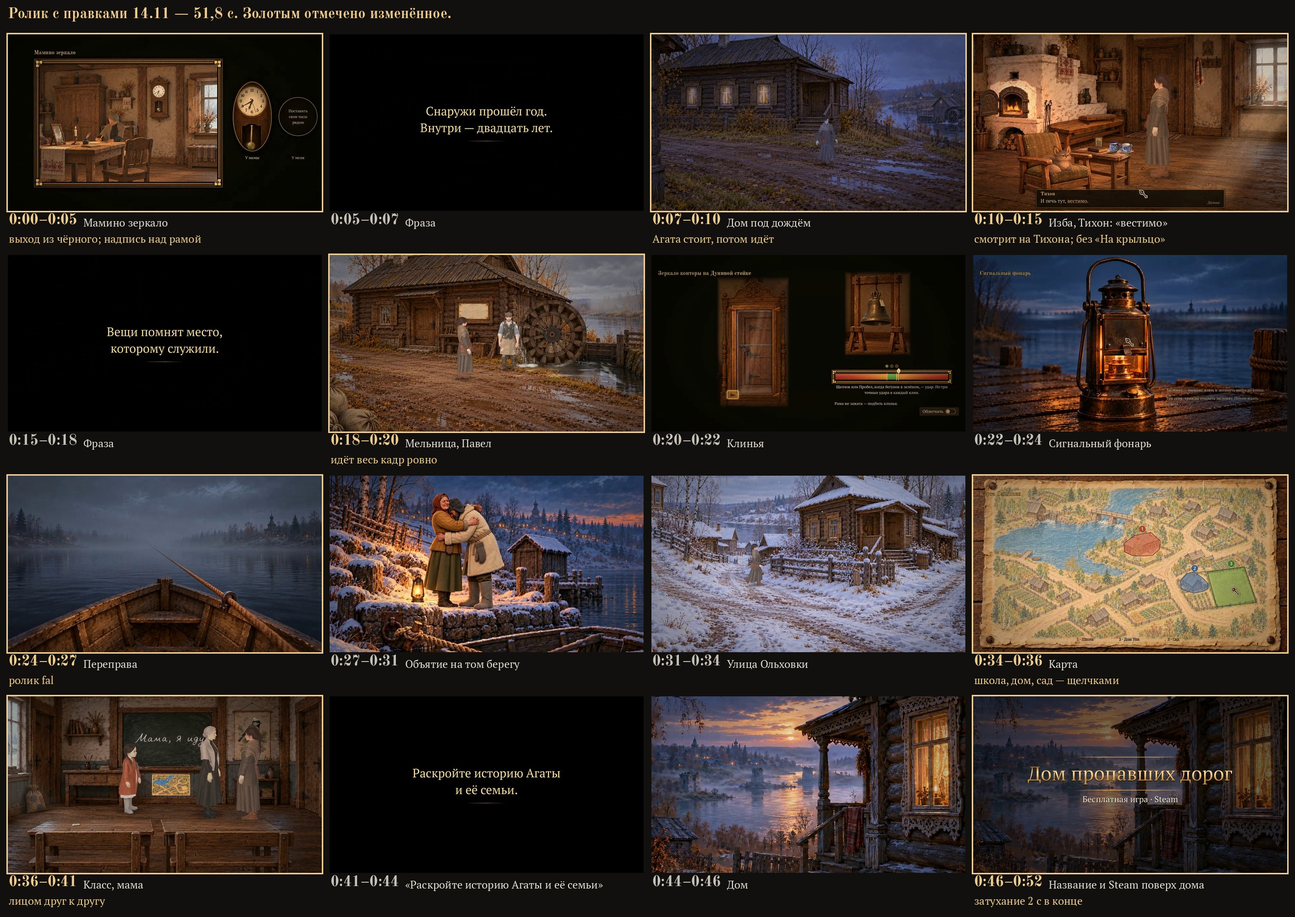
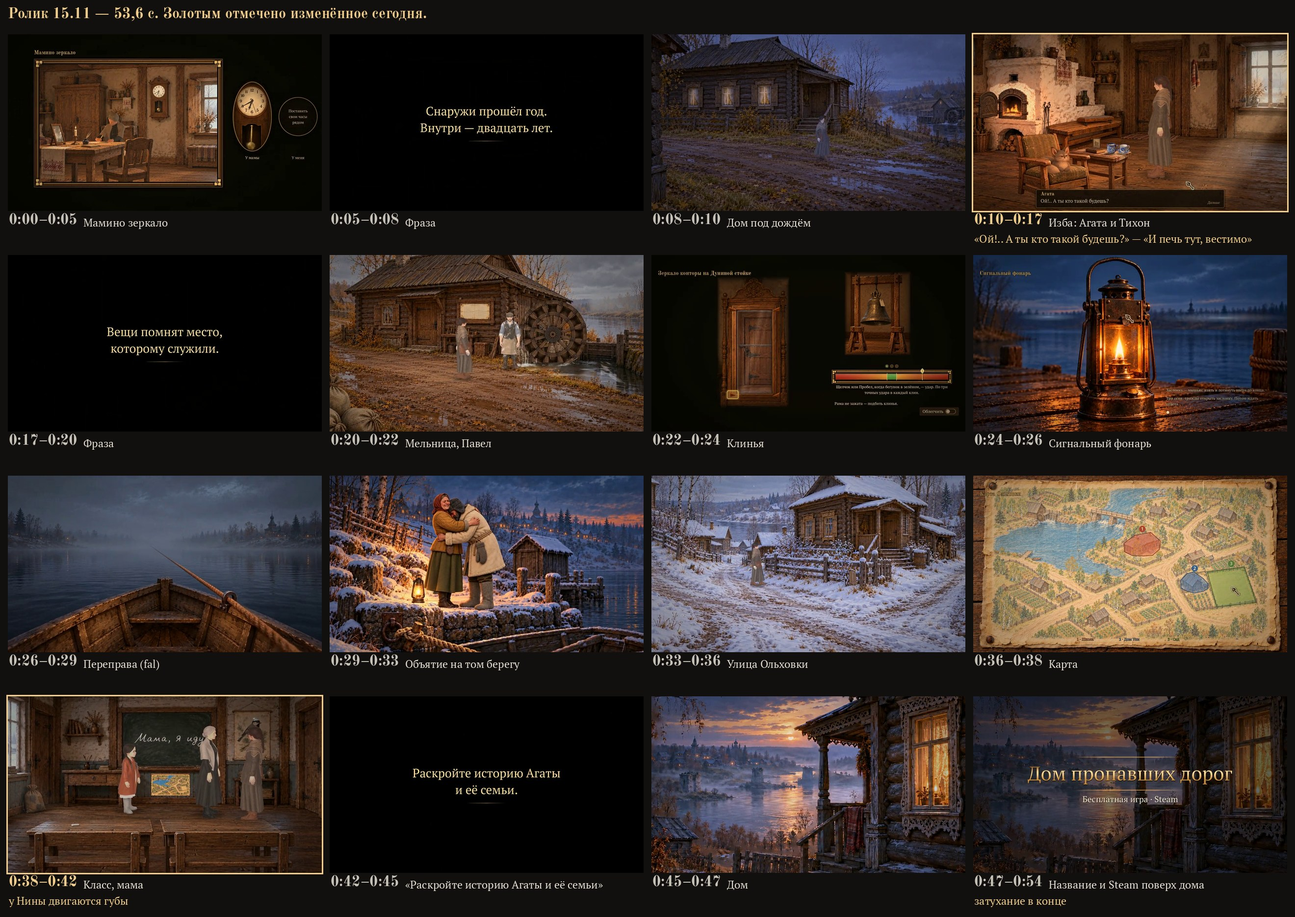
Ролик 15.11: раскадровка 53,6 с; состояние — отправлен полный архивом [skip ci]
Claude-Session: https://claude.ai/code/session_01Qvdjz1zmfr41cRSvLxvjeK

diff --git a/Docs/CURRENT_STATE.md b/Docs/CURRENT_STATE.md
@@ -1,4 +1,4 @@
-# Current state — 15.11, 13:40: ролик — фраза Агаты в избе и губы у говорящих; дневная переправа живая; рендер и полный прогон запускаются (Opus 5.5)
+# Current state — 15.11, 14:50: ролик с фразой Агаты и губами отрендерен и отправлен (полный — архивом); скриншоты — новый выбор (Opus 5.5)
 - **В новой копии репозитория первым делом: `git config core.hooksPath tools/hooks`** (хук не пускает в main коммит без «[skip ci]»).
 - **Директор 15.11:** 12:51 «ролик вроде норм, только какую-то фразу Агаты бы вставить, можно ту же сцену чуть расширить с Тихоном… у Нины на видео нет движений мимики, в игре её тоже мы не доделали?»; 12:52 «и какое качество ролика в целом»; «дневной ролик можешь заказывать да»; «по скринам — дай архивом всё, что есть у нас сейчас и что рассматриваются».
 - **Скриншоты — новый выбор Директора 13:58: 2, 6, 12, 14, 15, 18, 21**; № 21 переснят с Агатой у Мити (`shots_quests.gd`), архив и лист отправлены 14:15 (`CHOSEN.md`, `_vybor_1511.jpg`); № 18 повторяет кадр карты из ролика — сказано Директору.
@@ -6,7 +6,7 @@
 - **Дневная переправа — живая:** fal 43711188165 ($1,12, «да» 12:52), дубль 2 (у дубля 1 канат смазан) → `game/assets/closeups/crossing_live_day.ogv`, `day.film` в четырёх переправах; `validate_films.py` — 8 роликов OK; `test_crossing_film` 5/5 под Xvfb (CF-6: днём дневной ролик, вечером вечерний). Снято из игры: `Docs/evidence/feedback_1411/pereprava_v_igre_den.mp4`.
 - **Ролик:** кадр избы 7,0 с — Агата: «Ой!.. А ты кто такой будешь?», Тихон: «И печь тут, вестимо» + подсказка «конечно». Новое событие `speak` (`trailer.gd`): реплика в окне + губы говорящего по буквам записи (JawModifier / рот куклы `puppet_actor.gd speaking_override`), монтаж кладёт голос по нему же (`trailer_assemble.py`); у Нины в классе губы теперь двигаются. Ролик 53,6 с. Пробные кадры избы просмотрены (`scratchpad/tr1411/t_tikhon2.jpg`), губы проверены пробой под Xvfb. Тесты: `test_trailer` 3/3 (у каждого `speak` есть запись и фигура), новый `test_trailer_speak` под Xvfb 2/2 (губы открываются и закрываются по буквам, после реплики закрыты; самопроверка — реплика только в окне, как до 15.11, рот закрыт), 143 с.
 - **В игре губы по звукам** у всех десяти фигур с 12.11 (принято по видео); подбородка, щёк, бровей, моргания нет — не заказывались.
-- **Директор 13:48: «ролик тоже пришли архивом полный»** — полный файл нового рендера (1920×1080, ~160 МБ) отправить zip-архивом, как только `trailer.yml` 43714987606 закончится (таймер 14:35): скачать ассет релиза `trailer-trailer_v3` потоком прямо в zip (диск ~280 МБ — без второй копии), `SendUserFile`, плюс ссылка на релиз.
+- **Ролик 15.11 отрендерен и отправлен 14:45:** `trailer.yml` 43714987606 — успех (`ubuntu-24.04`, 48 мин), 53,6 с; полный файл (1920×1080, 30 к/с, H.264 High, AAC 48 кГц стерео, 162 538 786 байт) — архивом (`rolik_polnyi_1511.zip`, по просьбе Директора 13:48 «ролик тоже пришли архивом полный», 13:58 «дай новый линк как закончится») и ссылкой на релиз `trailer-trailer_v3`; превью и раскадровка `trailer_v3_po_sekundam.jpg` — `Docs/evidence/trailer_v3/`. Проверено по кадрам: в избе окно Агаты «Ой!.. А ты кто такой будешь?», потом Тихона и подсказка «конечно». Губы Нины в классе пробой под Xvfb двигаются (открытие 0…0,93 по буквам), но на кадре она в профиль и мелкая — в превью движения губ почти не видно; сказано Директору, предложен ближний план.
 - **Ждёт Директора:** просмотр ролика с фразой Агаты (после рендера); «собирай» (зеркало, ролики переправы днём и вечером — строки 15–16 чеклиста; сборка 20:18 их не содержит); скриншот 13; старая сборка Linux от 03.11 в релизе.
 - **Диск сессии:** ~290 МБ (15.11 удалены свои старые черновые папки в scratchpad: night, video, review, rig и логи заданий).
 
